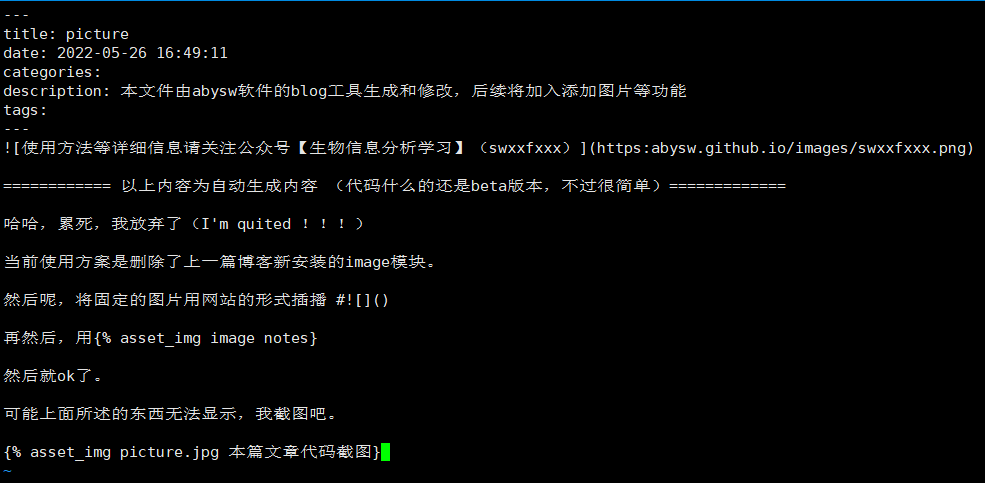
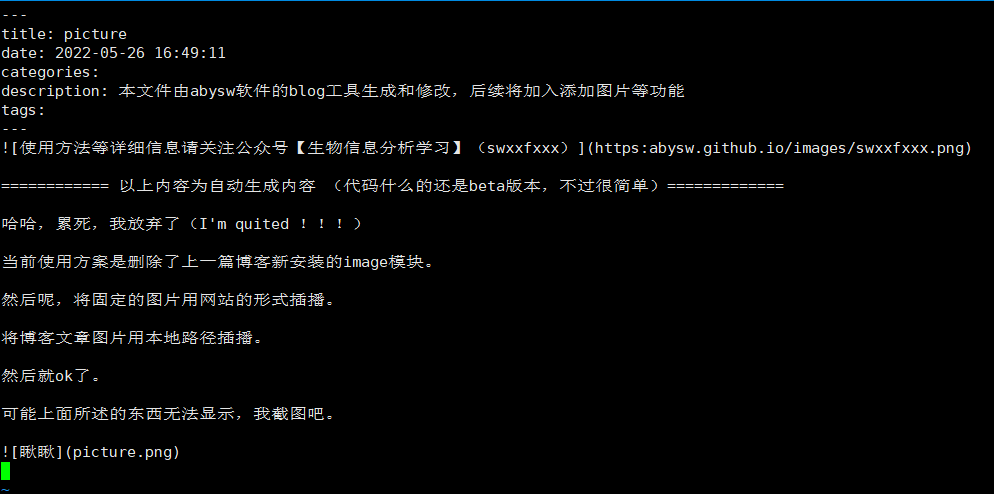
Site updated: 2022-05-26 17:26:20

diff --git a/index.html b/index.html
@@ -103,14 +103,16 @@
 <p>&#x3D;&#x3D;&#x3D;&#x3D;&#x3D;&#x3D;&#x3D;&#x3D;&#x3D;&#x3D;&#x3D;&#x3D; 以上内容为自动生成内容 （代码什么的还是beta版本，不过很简单）&#x3D;&#x3D;&#x3D;&#x3D;&#x3D;&#x3D;&#x3D;&#x3D;&#x3D;&#x3D;&#x3D;&#x3D;&#x3D;</p>
 <p>哈哈，累死，我放弃了（I’m quited ！！！）</p>
 <p>当前使用方案是删除了上一篇博客新安装的image模块。</p>
-<p>然后呢，将固定的图片用网站的形式插播 #<img src="/2022/05/26/picture/"></p>
-<p>再然后，用<img src="/2022/05/26/picture/2022/05/26/picture/picture.png" class="image notes} 然后就ok了。 可能上面所述的东西无法显示，我截图吧。 {% asset_img" title="本篇文章代码截图"></p>
-<p>刚刚掉了一个百分号。</p>
+<p>然后呢，将固定的图片用网站的形式插播。</p>
+<p>将博客文章图片用本地路径插播。</p>
+<p>然后就ok了。</p>
+<p>可能上面所述的东西无法显示，我截图吧。</p>
+<p><img src="/2022/05/26/picture/picture.png" alt="瞅瞅"></p>
 
       
     </div>
     <footer class="article-footer">
-      <a data-url="https://abysw.github.io/2022/05/26/picture/" data-id="cl3msxan000045zbz0p0udxji" data-title="picture" class="article-share-link">Share</a>
+      <a data-url="https://abysw.github.io/2022/05/26/picture/" data-id="cl3mt90zf0004i8bza5fw78fo" data-title="picture" class="article-share-link">Share</a>
       
       
       
@@ -153,7 +155,7 @@
       
     </div>
     <footer class="article-footer">
-      <a data-url="https://abysw.github.io/2022/05/26/test3/" data-id="cl3msxan4000a5zbzdaac6345" data-title="博客头头测试" class="article-share-link">Share</a>
+      <a data-url="https://abysw.github.io/2022/05/26/test3/" data-id="cl3mt90zj000ai8bz8guo7vrc" data-title="博客头头测试" class="article-share-link">Share</a>
       
       
       
@@ -208,7 +210,7 @@
       
     </div>
     <footer class="article-footer">
-      <a data-url="https://abysw.github.io/2022/05/25/raid-cache/" data-id="cl3msxan100055zbz4saj3in0" data-title="raid-cache 设置问题" class="article-share-link">Share</a>
+      <a data-url="https://abysw.github.io/2022/05/25/raid-cache/" data-id="cl3mt90zg0005i8bzbq87eh42" data-title="raid-cache 设置问题" class="article-share-link">Share</a>
       
       
       
@@ -254,7 +256,7 @@
       
     </div>
     <footer class="article-footer">
-      <a data-url="https://abysw.github.io/2022/05/24/test2/" data-id="cl3msxan300095zbzhj5f5b4u" data-title="博客测试文档" class="article-share-link">Share</a>
+      <a data-url="https://abysw.github.io/2022/05/24/test2/" data-id="cl3mt90zi0009i8bz2sx6bgcc" data-title="博客测试文档" class="article-share-link">Share</a>
       
       
       
@@ -297,13 +299,13 @@
 <figure class="highlight bash"><table><tr><td class="gutter"><pre><span class="line">1</span><br></pre></td><td class="code"><pre><span class="line">$ abysw blog raid-cache <span class="comment"># 创建新的博客文档并开始编辑。</span></span><br></pre></td></tr></table></figure>
 
 <figure class="highlight bash"><table><tr><td class="gutter"><pre><span class="line">1</span><br></pre></td><td class="code"><pre><span class="line">$ abysw blog up <span class="comment"># 更新博客并上传。</span></span><br></pre></td></tr></table></figure>
-<p>Hi abysw&#x2F;abysw.github.io! You’ve successfully authenticated, but GitHub does not provide shell access.<br>INFO  Validating config<br>INFO  Deleted database.<br>INFO  Deleted public folder.<br>INFO  Validating config<br>INFO  Start processing<br>INFO  Files loaded in 150 ms<br>INFO  Generated: archives&#x2F;index.html<br>INFO  Generated: index.html<br>INFO  Generated: images&#x2F;swxxfxxx.png<br>INFO  Generated: tags&#x2F;本文件由abysw软件的blog工具生成和修改，后续将加入添加图片等功能。&#x2F;index.html<br>INFO  Generated: archives&#x2F;2022&#x2F;05&#x2F;index.html<br>INFO  Generated: fancybox&#x2F;jquery.fancybox.min.css<br>INFO  Generated: js&#x2F;script.js<br>INFO  Generated: archives&#x2F;2022&#x2F;index.html<br>INFO  Generated: css&#x2F;style.css<br>INFO  Generated: css&#x2F;fonts&#x2F;FontAwesome.otf<br>INFO  Generated: fancybox&#x2F;jquery.fancybox.min.js<br>INFO  Generated: js&#x2F;jquery-3.4.1.min.js<br>INFO  Generated: css&#x2F;fonts&#x2F;fontawesome-webfont.eot<br>INFO  Generated: css&#x2F;fonts&#x2F;fontawesome-webfont.ttf<br>INFO  Generated: css&#x2F;fonts&#x2F;fontawesome-webfont.woff<br>INFO  Generated: css&#x2F;images&#x2F;banner.jpg<br>INFO  Generated: css&#x2F;fonts&#x2F;fontawesome-webfont.woff2<br>INFO  Generated: 2022&#x2F;05&#x2F;24&#x2F;test&#x2F;index.html<br>INFO  Generated: css&#x2F;fonts&#x2F;fontawesome-webfont.svg<br>INFO  Generated: 2022&#x2F;05&#x2F;23&#x2F;第一篇github博客&#x2F;index.html<br>INFO  Generated: 2022&#x2F;05&#x2F;23&#x2F;ann-isoform&#x2F;index.html<br>INFO  Generated: 2022&#x2F;05&#x2F;24&#x2F;test2&#x2F;index.html<br>INFO  Generated: 2022&#x2F;05&#x2F;23&#x2F;hello-world&#x2F;index.html<br>INFO  Generated: 2022&#x2F;05&#x2F;25&#x2F;raid-cache&#x2F;index.html<br>INFO  24 files generated in 325 ms<br>INFO  Validating config<br>INFO  Deploying: git<br>INFO  Clearing .deploy_git folder…<br>INFO  Copying files from public folder…<br>INFO  Copying files from extend dirs…<br>[master 808f9f0] Site updated: 2022-05-25 16:47:32<br> 8 files changed, 28 insertions(+), 22 deletions(-)<br>Enumerating objects: 41, done.<br>Counting objects: 100% (41&#x2F;41), done.<br>Delta compression using up to 256 threads<br>Compressing objects: 100% (13&#x2F;13), done.<br>Writing objects: 100% (21&#x2F;21), 2.88 KiB | 2.88 MiB&#x2F;s, done.<br>Total 21 (delta 9), reused 0 (delta 0), pack-reused 0<br>remote: Resolving deltas: 100% (9&#x2F;9), completed with 9 local objects.<br>To github.com:abysw&#x2F;abysw.github.io.git<br>   f163b1b..808f9f0  HEAD -&gt; master<br>Branch ‘master’ set up to track ‘<a href="mailto:&#x67;&#105;&#116;&#64;&#x67;&#105;&#x74;&#104;&#117;&#98;&#46;&#99;&#111;&#109;">&#x67;&#105;&#116;&#64;&#x67;&#105;&#x74;&#104;&#117;&#98;&#46;&#99;&#111;&#109;</a>:abysw&#x2F;abysw.github.io.git&#x2F;master’.<br>INFO  Deploy done: git</p>
+<p>Hi abysw&#x2F;abysw.github.io! You’ve successfully authenticated, but GitHub does not provide shell access.<br>INFO  Validating config<br>INFO  Deleted database.<br>INFO  Deleted public folder.<br>INFO  Validating config<br>INFO  Start processing<br>INFO  Files loaded in 150 ms<br>INFO  Generated: archives&#x2F;index.html<br>INFO  Generated: index.html<br>INFO  Generated: images&#x2F;swxxfxxx.png<br>INFO  Generated: tags&#x2F;本文件由abysw软件的blog工具生成和修改，后续将加入添加图片等功能。&#x2F;index.html<br>INFO  Generated: archives&#x2F;2022&#x2F;05&#x2F;index.html<br>INFO  Generated: fancybox&#x2F;jquery.fancybox.min.css<br>INFO  Generated: js&#x2F;script.js<br>INFO  Generated: archives&#x2F;2022&#x2F;index.html<br>INFO  Generated: css&#x2F;style.css<br>INFO  Generated: css&#x2F;fonts&#x2F;FontAwesome.otf<br>INFO  Generated: fancybox&#x2F;jquery.fancybox.min.js<br>INFO  Generated: js&#x2F;jquery-3.4.1.min.js<br>INFO  Generated: css&#x2F;fonts&#x2F;fontawesome-webfont.eot<br>INFO  Generated: css&#x2F;fonts&#x2F;fontawesome-webfont.ttf<br>INFO  Generated: css&#x2F;fonts&#x2F;fontawesome-webfont.woff<br>INFO  Generated: css&#x2F;images&#x2F;banner.jpg<br>INFO  Generated: css&#x2F;fonts&#x2F;fontawesome-webfont.woff2<br>INFO  Generated: 2022&#x2F;05&#x2F;24&#x2F;test&#x2F;index.html<br>INFO  Generated: css&#x2F;fonts&#x2F;fontawesome-webfont.svg<br>INFO  Generated: 2022&#x2F;05&#x2F;23&#x2F;第一篇github博客&#x2F;index.html<br>INFO  Generated: 2022&#x2F;05&#x2F;23&#x2F;ann-isoform&#x2F;index.html<br>INFO  Generated: 2022&#x2F;05&#x2F;24&#x2F;test2&#x2F;index.html<br>INFO  Generated: 2022&#x2F;05&#x2F;23&#x2F;hello-world&#x2F;index.html<br>INFO  Generated: 2022&#x2F;05&#x2F;25&#x2F;raid-cache&#x2F;index.html<br>INFO  24 files generated in 325 ms<br>INFO  Validating config<br>INFO  Deploying: git<br>INFO  Clearing .deploy_git folder…<br>INFO  Copying files from public folder…<br>INFO  Copying files from extend dirs…<br>[master 808f9f0] Site updated: 2022-05-25 16:47:32<br> 8 files changed, 28 insertions(+), 22 deletions(-)<br>Enumerating objects: 41, done.<br>Counting objects: 100% (41&#x2F;41), done.<br>Delta compression using up to 256 threads<br>Compressing objects: 100% (13&#x2F;13), done.<br>Writing objects: 100% (21&#x2F;21), 2.88 KiB | 2.88 MiB&#x2F;s, done.<br>Total 21 (delta 9), reused 0 (delta 0), pack-reused 0<br>remote: Resolving deltas: 100% (9&#x2F;9), completed with 9 local objects.<br>To github.com:abysw&#x2F;abysw.github.io.git<br>   f163b1b..808f9f0  HEAD -&gt; master<br>Branch ‘master’ set up to track ‘<a href="mailto:&#x67;&#105;&#116;&#x40;&#103;&#x69;&#x74;&#x68;&#x75;&#x62;&#46;&#x63;&#111;&#x6d;">&#x67;&#105;&#116;&#x40;&#103;&#x69;&#x74;&#x68;&#x75;&#x62;&#46;&#x63;&#111;&#x6d;</a>:abysw&#x2F;abysw.github.io.git&#x2F;master’.<br>INFO  Deploy done: git</p>
 <p>tags</p>
 
       
     </div>
     <footer class="article-footer">
-      <a data-url="https://abysw.github.io/2022/05/24/test/" data-id="cl3msxan200065zbz9dmp65wy" data-title="test" class="article-share-link">Share</a>
+      <a data-url="https://abysw.github.io/2022/05/24/test/" data-id="cl3mt90zh0006i8bzah8jcot0" data-title="test" class="article-share-link">Share</a>
       
       
       
@@ -353,7 +355,7 @@
       
     </div>
     <footer class="article-footer">
-      <a data-url="https://abysw.github.io/2022/05/23/ann-isoform/" data-id="cl3msxams00005zbz3zhx894d" data-title="isoform 注释" class="article-share-link">Share</a>
+      <a data-url="https://abysw.github.io/2022/05/23/ann-isoform/" data-id="cl3mt90z70000i8bzgppf91hw" data-title="isoform 注释" class="article-share-link">Share</a>
       
       
       
@@ -406,7 +408,7 @@
       
     </div>
     <footer class="article-footer">
-      <a data-url="https://abysw.github.io/2022/05/23/hello-world/" data-id="cl3msxamx00015zbz5k2m681i" data-title="Hello World" class="article-share-link">Share</a>
+      <a data-url="https://abysw.github.io/2022/05/23/hello-world/" data-id="cl3mt90zb0001i8bzhwop9k82" data-title="Hello World" class="article-share-link">Share</a>
       
       
       
@@ -464,7 +466,7 @@
       
     </div>
     <footer class="article-footer">
-      <a data-url="https://abysw.github.io/2022/05/23/%E7%AC%AC%E4%B8%80%E7%AF%87github%E5%8D%9A%E5%AE%A2/" data-id="cl3msxan5000c5zbzg8i0go10" data-title="第一篇github博客" class="article-share-link">Share</a>
+      <a data-url="https://abysw.github.io/2022/05/23/%E7%AC%AC%E4%B8%80%E7%AF%87github%E5%8D%9A%E5%AE%A2/" data-id="cl3mt90zj000ci8bzavgfbjb2" data-title="第一篇github博客" class="article-share-link">Share</a>
       
       
       

diff --git a/2022/05/24/test/index.html b/2022/05/24/test/index.html
@@ -109,13 +109,13 @@
 <figure class="highlight bash"><table><tr><td class="gutter"><pre><span class="line">1</span><br></pre></td><td class="code"><pre><span class="line">$ abysw blog raid-cache <span class="comment"># 创建新的博客文档并开始编辑。</span></span><br></pre></td></tr></table></figure>
 
 <figure class="highlight bash"><table><tr><td class="gutter"><pre><span class="line">1</span><br></pre></td><td class="code"><pre><span class="line">$ abysw blog up <span class="comment"># 更新博客并上传。</span></span><br></pre></td></tr></table></figure>
-<p>Hi abysw&#x2F;abysw.github.io! You’ve successfully authenticated, but GitHub does not provide shell access.<br>INFO  Validating config<br>INFO  Deleted database.<br>INFO  Deleted public folder.<br>INFO  Validating config<br>INFO  Start processing<br>INFO  Files loaded in 150 ms<br>INFO  Generated: archives&#x2F;index.html<br>INFO  Generated: index.html<br>INFO  Generated: images&#x2F;swxxfxxx.png<br>INFO  Generated: tags&#x2F;本文件由abysw软件的blog工具生成和修改，后续将加入添加图片等功能。&#x2F;index.html<br>INFO  Generated: archives&#x2F;2022&#x2F;05&#x2F;index.html<br>INFO  Generated: fancybox&#x2F;jquery.fancybox.min.css<br>INFO  Generated: js&#x2F;script.js<br>INFO  Generated: archives&#x2F;2022&#x2F;index.html<br>INFO  Generated: css&#x2F;style.css<br>INFO  Generated: css&#x2F;fonts&#x2F;FontAwesome.otf<br>INFO  Generated: fancybox&#x2F;jquery.fancybox.min.js<br>INFO  Generated: js&#x2F;jquery-3.4.1.min.js<br>INFO  Generated: css&#x2F;fonts&#x2F;fontawesome-webfont.eot<br>INFO  Generated: css&#x2F;fonts&#x2F;fontawesome-webfont.ttf<br>INFO  Generated: css&#x2F;fonts&#x2F;fontawesome-webfont.woff<br>INFO  Generated: css&#x2F;images&#x2F;banner.jpg<br>INFO  Generated: css&#x2F;fonts&#x2F;fontawesome-webfont.woff2<br>INFO  Generated: 2022&#x2F;05&#x2F;24&#x2F;test&#x2F;index.html<br>INFO  Generated: css&#x2F;fonts&#x2F;fontawesome-webfont.svg<br>INFO  Generated: 2022&#x2F;05&#x2F;23&#x2F;第一篇github博客&#x2F;index.html<br>INFO  Generated: 2022&#x2F;05&#x2F;23&#x2F;ann-isoform&#x2F;index.html<br>INFO  Generated: 2022&#x2F;05&#x2F;24&#x2F;test2&#x2F;index.html<br>INFO  Generated: 2022&#x2F;05&#x2F;23&#x2F;hello-world&#x2F;index.html<br>INFO  Generated: 2022&#x2F;05&#x2F;25&#x2F;raid-cache&#x2F;index.html<br>INFO  24 files generated in 325 ms<br>INFO  Validating config<br>INFO  Deploying: git<br>INFO  Clearing .deploy_git folder…<br>INFO  Copying files from public folder…<br>INFO  Copying files from extend dirs…<br>[master 808f9f0] Site updated: 2022-05-25 16:47:32<br> 8 files changed, 28 insertions(+), 22 deletions(-)<br>Enumerating objects: 41, done.<br>Counting objects: 100% (41&#x2F;41), done.<br>Delta compression using up to 256 threads<br>Compressing objects: 100% (13&#x2F;13), done.<br>Writing objects: 100% (21&#x2F;21), 2.88 KiB | 2.88 MiB&#x2F;s, done.<br>Total 21 (delta 9), reused 0 (delta 0), pack-reused 0<br>remote: Resolving deltas: 100% (9&#x2F;9), completed with 9 local objects.<br>To github.com:abysw&#x2F;abysw.github.io.git<br>   f163b1b..808f9f0  HEAD -&gt; master<br>Branch ‘master’ set up to track ‘<a href="mailto:&#x67;&#105;&#116;&#64;&#x67;&#105;&#x74;&#104;&#117;&#98;&#46;&#99;&#111;&#109;">&#x67;&#105;&#116;&#64;&#x67;&#105;&#x74;&#104;&#117;&#98;&#46;&#99;&#111;&#109;</a>:abysw&#x2F;abysw.github.io.git&#x2F;master’.<br>INFO  Deploy done: git</p>
+<p>Hi abysw&#x2F;abysw.github.io! You’ve successfully authenticated, but GitHub does not provide shell access.<br>INFO  Validating config<br>INFO  Deleted database.<br>INFO  Deleted public folder.<br>INFO  Validating config<br>INFO  Start processing<br>INFO  Files loaded in 150 ms<br>INFO  Generated: archives&#x2F;index.html<br>INFO  Generated: index.html<br>INFO  Generated: images&#x2F;swxxfxxx.png<br>INFO  Generated: tags&#x2F;本文件由abysw软件的blog工具生成和修改，后续将加入添加图片等功能。&#x2F;index.html<br>INFO  Generated: archives&#x2F;2022&#x2F;05&#x2F;index.html<br>INFO  Generated: fancybox&#x2F;jquery.fancybox.min.css<br>INFO  Generated: js&#x2F;script.js<br>INFO  Generated: archives&#x2F;2022&#x2F;index.html<br>INFO  Generated: css&#x2F;style.css<br>INFO  Generated: css&#x2F;fonts&#x2F;FontAwesome.otf<br>INFO  Generated: fancybox&#x2F;jquery.fancybox.min.js<br>INFO  Generated: js&#x2F;jquery-3.4.1.min.js<br>INFO  Generated: css&#x2F;fonts&#x2F;fontawesome-webfont.eot<br>INFO  Generated: css&#x2F;fonts&#x2F;fontawesome-webfont.ttf<br>INFO  Generated: css&#x2F;fonts&#x2F;fontawesome-webfont.woff<br>INFO  Generated: css&#x2F;images&#x2F;banner.jpg<br>INFO  Generated: css&#x2F;fonts&#x2F;fontawesome-webfont.woff2<br>INFO  Generated: 2022&#x2F;05&#x2F;24&#x2F;test&#x2F;index.html<br>INFO  Generated: css&#x2F;fonts&#x2F;fontawesome-webfont.svg<br>INFO  Generated: 2022&#x2F;05&#x2F;23&#x2F;第一篇github博客&#x2F;index.html<br>INFO  Generated: 2022&#x2F;05&#x2F;23&#x2F;ann-isoform&#x2F;index.html<br>INFO  Generated: 2022&#x2F;05&#x2F;24&#x2F;test2&#x2F;index.html<br>INFO  Generated: 2022&#x2F;05&#x2F;23&#x2F;hello-world&#x2F;index.html<br>INFO  Generated: 2022&#x2F;05&#x2F;25&#x2F;raid-cache&#x2F;index.html<br>INFO  24 files generated in 325 ms<br>INFO  Validating config<br>INFO  Deploying: git<br>INFO  Clearing .deploy_git folder…<br>INFO  Copying files from public folder…<br>INFO  Copying files from extend dirs…<br>[master 808f9f0] Site updated: 2022-05-25 16:47:32<br> 8 files changed, 28 insertions(+), 22 deletions(-)<br>Enumerating objects: 41, done.<br>Counting objects: 100% (41&#x2F;41), done.<br>Delta compression using up to 256 threads<br>Compressing objects: 100% (13&#x2F;13), done.<br>Writing objects: 100% (21&#x2F;21), 2.88 KiB | 2.88 MiB&#x2F;s, done.<br>Total 21 (delta 9), reused 0 (delta 0), pack-reused 0<br>remote: Resolving deltas: 100% (9&#x2F;9), completed with 9 local objects.<br>To github.com:abysw&#x2F;abysw.github.io.git<br>   f163b1b..808f9f0  HEAD -&gt; master<br>Branch ‘master’ set up to track ‘<a href="mailto:&#x67;&#105;&#116;&#x40;&#103;&#x69;&#x74;&#x68;&#x75;&#x62;&#46;&#x63;&#111;&#x6d;">&#x67;&#105;&#116;&#x40;&#103;&#x69;&#x74;&#x68;&#x75;&#x62;&#46;&#x63;&#111;&#x6d;</a>:abysw&#x2F;abysw.github.io.git&#x2F;master’.<br>INFO  Deploy done: git</p>
 <p>tags</p>
 
       
     </div>
     <footer class="article-footer">
-      <a data-url="https://abysw.github.io/2022/05/24/test/" data-id="cl3msxan200065zbz9dmp65wy" data-title="test" class="article-share-link">Share</a>
+      <a data-url="https://abysw.github.io/2022/05/24/test/" data-id="cl3mt90zh0006i8bzah8jcot0" data-title="test" class="article-share-link">Share</a>
       
       
       

diff --git a/2022/05/26/picture/index.html b/2022/05/26/picture/index.html
@@ -14,10 +14,9 @@
 <meta property="og:description" content="本文件由abysw软件的blog工具生成和修改，后续将加入添加图片等功能">
 <meta property="og:locale" content="en_US">
 <meta property="og:image" content="https://abysw.github.io/images/swxxfxxx.png">
-<meta property="og:image" content="https://abysw.github.io/2022/05/26/picture/">
-<meta property="og:image" content="https://abysw.github.io/2022/05/26/picture/2022/05/26/picture/picture.png">
+<meta property="og:image" content="https://abysw.github.io/2022/05/26/picture/picture.png">
 <meta property="article:published_time" content="2022-05-26T08:49:11.000Z">
-<meta property="article:modified_time" content="2022-05-26T09:17:04.707Z">
+<meta property="article:modified_time" content="2022-05-26T09:25:12.084Z">
 <meta property="article:author" content="Yuan-SW-F">
 <meta name="twitter:card" content="summary">
 <meta name="twitter:image" content="https://abysw.github.io/images/swxxfxxx.png">
@@ -107,14 +106,16 @@
 <p>&#x3D;&#x3D;&#x3D;&#x3D;&#x3D;&#x3D;&#x3D;&#x3D;&#x3D;&#x3D;&#x3D;&#x3D; 以上内容为自动生成内容 （代码什么的还是beta版本，不过很简单）&#x3D;&#x3D;&#x3D;&#x3D;&#x3D;&#x3D;&#x3D;&#x3D;&#x3D;&#x3D;&#x3D;&#x3D;&#x3D;</p>
 <p>哈哈，累死，我放弃了（I’m quited ！！！）</p>
 <p>当前使用方案是删除了上一篇博客新安装的image模块。</p>
-<p>然后呢，将固定的图片用网站的形式插播 #<img src="/2022/05/26/picture/"></p>
-<p>再然后，用<img src="/2022/05/26/picture/2022/05/26/picture/picture.png" class="image notes} 然后就ok了。 可能上面所述的东西无法显示，我截图吧。 {% asset_img" title="本篇文章代码截图"></p>
-<p>刚刚掉了一个百分号。</p>
+<p>然后呢，将固定的图片用网站的形式插播。</p>
+<p>将博客文章图片用本地路径插播。</p>
+<p>然后就ok了。</p>
+<p>可能上面所述的东西无法显示，我截图吧。</p>
+<p><img src="/2022/05/26/picture/picture.png" alt="瞅瞅"></p>
 
       
     </div>
     <footer class="article-footer">
-      <a data-url="https://abysw.github.io/2022/05/26/picture/" data-id="cl3msxan000045zbz0p0udxji" data-title="picture" class="article-share-link">Share</a>
+      <a data-url="https://abysw.github.io/2022/05/26/picture/" data-id="cl3mt90zf0004i8bza5fw78fo" data-title="picture" class="article-share-link">Share</a>
       
       
       

diff --git a/2022/05/23/第一篇github博客/index.html b/2022/05/23/第一篇github博客/index.html
@@ -126,7 +126,7 @@
       
     </div>
     <footer class="article-footer">
-      <a data-url="https://abysw.github.io/2022/05/23/%E7%AC%AC%E4%B8%80%E7%AF%87github%E5%8D%9A%E5%AE%A2/" data-id="cl3msxan5000c5zbzg8i0go10" data-title="第一篇github博客" class="article-share-link">Share</a>
+      <a data-url="https://abysw.github.io/2022/05/23/%E7%AC%AC%E4%B8%80%E7%AF%87github%E5%8D%9A%E5%AE%A2/" data-id="cl3mt90zj000ci8bzavgfbjb2" data-title="第一篇github博客" class="article-share-link">Share</a>
       
       
       

diff --git a/2022/05/25/raid-cache/index.html b/2022/05/25/raid-cache/index.html
@@ -148,7 +148,7 @@
       
     </div>
     <footer class="article-footer">
-      <a data-url="https://abysw.github.io/2022/05/25/raid-cache/" data-id="cl3msxan100055zbz4saj3in0" data-title="raid-cache 设置问题" class="article-share-link">Share</a>
+      <a data-url="https://abysw.github.io/2022/05/25/raid-cache/" data-id="cl3mt90zg0005i8bzbq87eh42" data-title="raid-cache 设置问题" class="article-share-link">Share</a>
       
       
       

diff --git a/2022/05/23/ann-isoform/index.html b/2022/05/23/ann-isoform/index.html
@@ -114,7 +114,7 @@
       
     </div>
     <footer class="article-footer">
-      <a data-url="https://abysw.github.io/2022/05/23/ann-isoform/" data-id="cl3msxams00005zbz3zhx894d" data-title="isoform 注释" class="article-share-link">Share</a>
+      <a data-url="https://abysw.github.io/2022/05/23/ann-isoform/" data-id="cl3mt90z70000i8bzgppf91hw" data-title="isoform 注释" class="article-share-link">Share</a>
       
       
       

diff --git a/2022/05/24/test2/index.html b/2022/05/24/test2/index.html
@@ -112,7 +112,7 @@
       
     </div>
     <footer class="article-footer">
-      <a data-url="https://abysw.github.io/2022/05/24/test2/" data-id="cl3msxan300095zbzhj5f5b4u" data-title="博客测试文档" class="article-share-link">Share</a>
+      <a data-url="https://abysw.github.io/2022/05/24/test2/" data-id="cl3mt90zi0009i8bz2sx6bgcc" data-title="博客测试文档" class="article-share-link">Share</a>
       
       
       

diff --git a/2022/05/26/test3/index.html b/2022/05/26/test3/index.html
@@ -111,7 +111,7 @@
       
     </div>
     <footer class="article-footer">
-      <a data-url="https://abysw.github.io/2022/05/26/test3/" data-id="cl3msxan4000a5zbzdaac6345" data-title="博客头头测试" class="article-share-link">Share</a>
+      <a data-url="https://abysw.github.io/2022/05/26/test3/" data-id="cl3mt90zj000ai8bz8guo7vrc" data-title="博客头头测试" class="article-share-link">Share</a>
       
       
       

diff --git a/2022/05/23/hello-world/index.html b/2022/05/23/hello-world/index.html
@@ -116,7 +116,7 @@
       
     </div>
     <footer class="article-footer">
-      <a data-url="https://abysw.github.io/2022/05/23/hello-world/" data-id="cl3msxamx00015zbz5k2m681i" data-title="Hello World" class="article-share-link">Share</a>
+      <a data-url="https://abysw.github.io/2022/05/23/hello-world/" data-id="cl3mt90zb0001i8bzhwop9k82" data-title="Hello World" class="article-share-link">Share</a>
       
       
       
